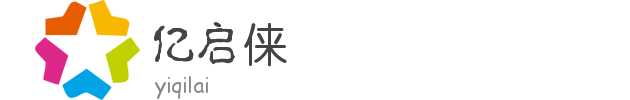
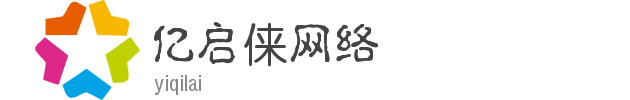
修改logo

Changed region(s): [[0.4524, 0.24, 0.6032, 0.63], [0.2413, 0.75, 0.3317, 0.99]]

diff --git a/instructions/templates/home/header.html b/instructions/templates/home/header.html
@@ -1,9 +1,9 @@
   <header class="main-header ">
 
     <!-- Logo -->
-    <a href="/" class="logo">
+    <a href="/"  class="logo">
       <!-- mini logo for sidebar mini 50x50 pixels -->
-      <img src="/images/ziti_b.png" class="logo">
+      <img src="/images/ziti_b1.png" style="height:50px;width: 190px">
       <!-- logo for regular state and mobile devices -->
       <span class="logo-lg">亿启俫</span>
     </a>
